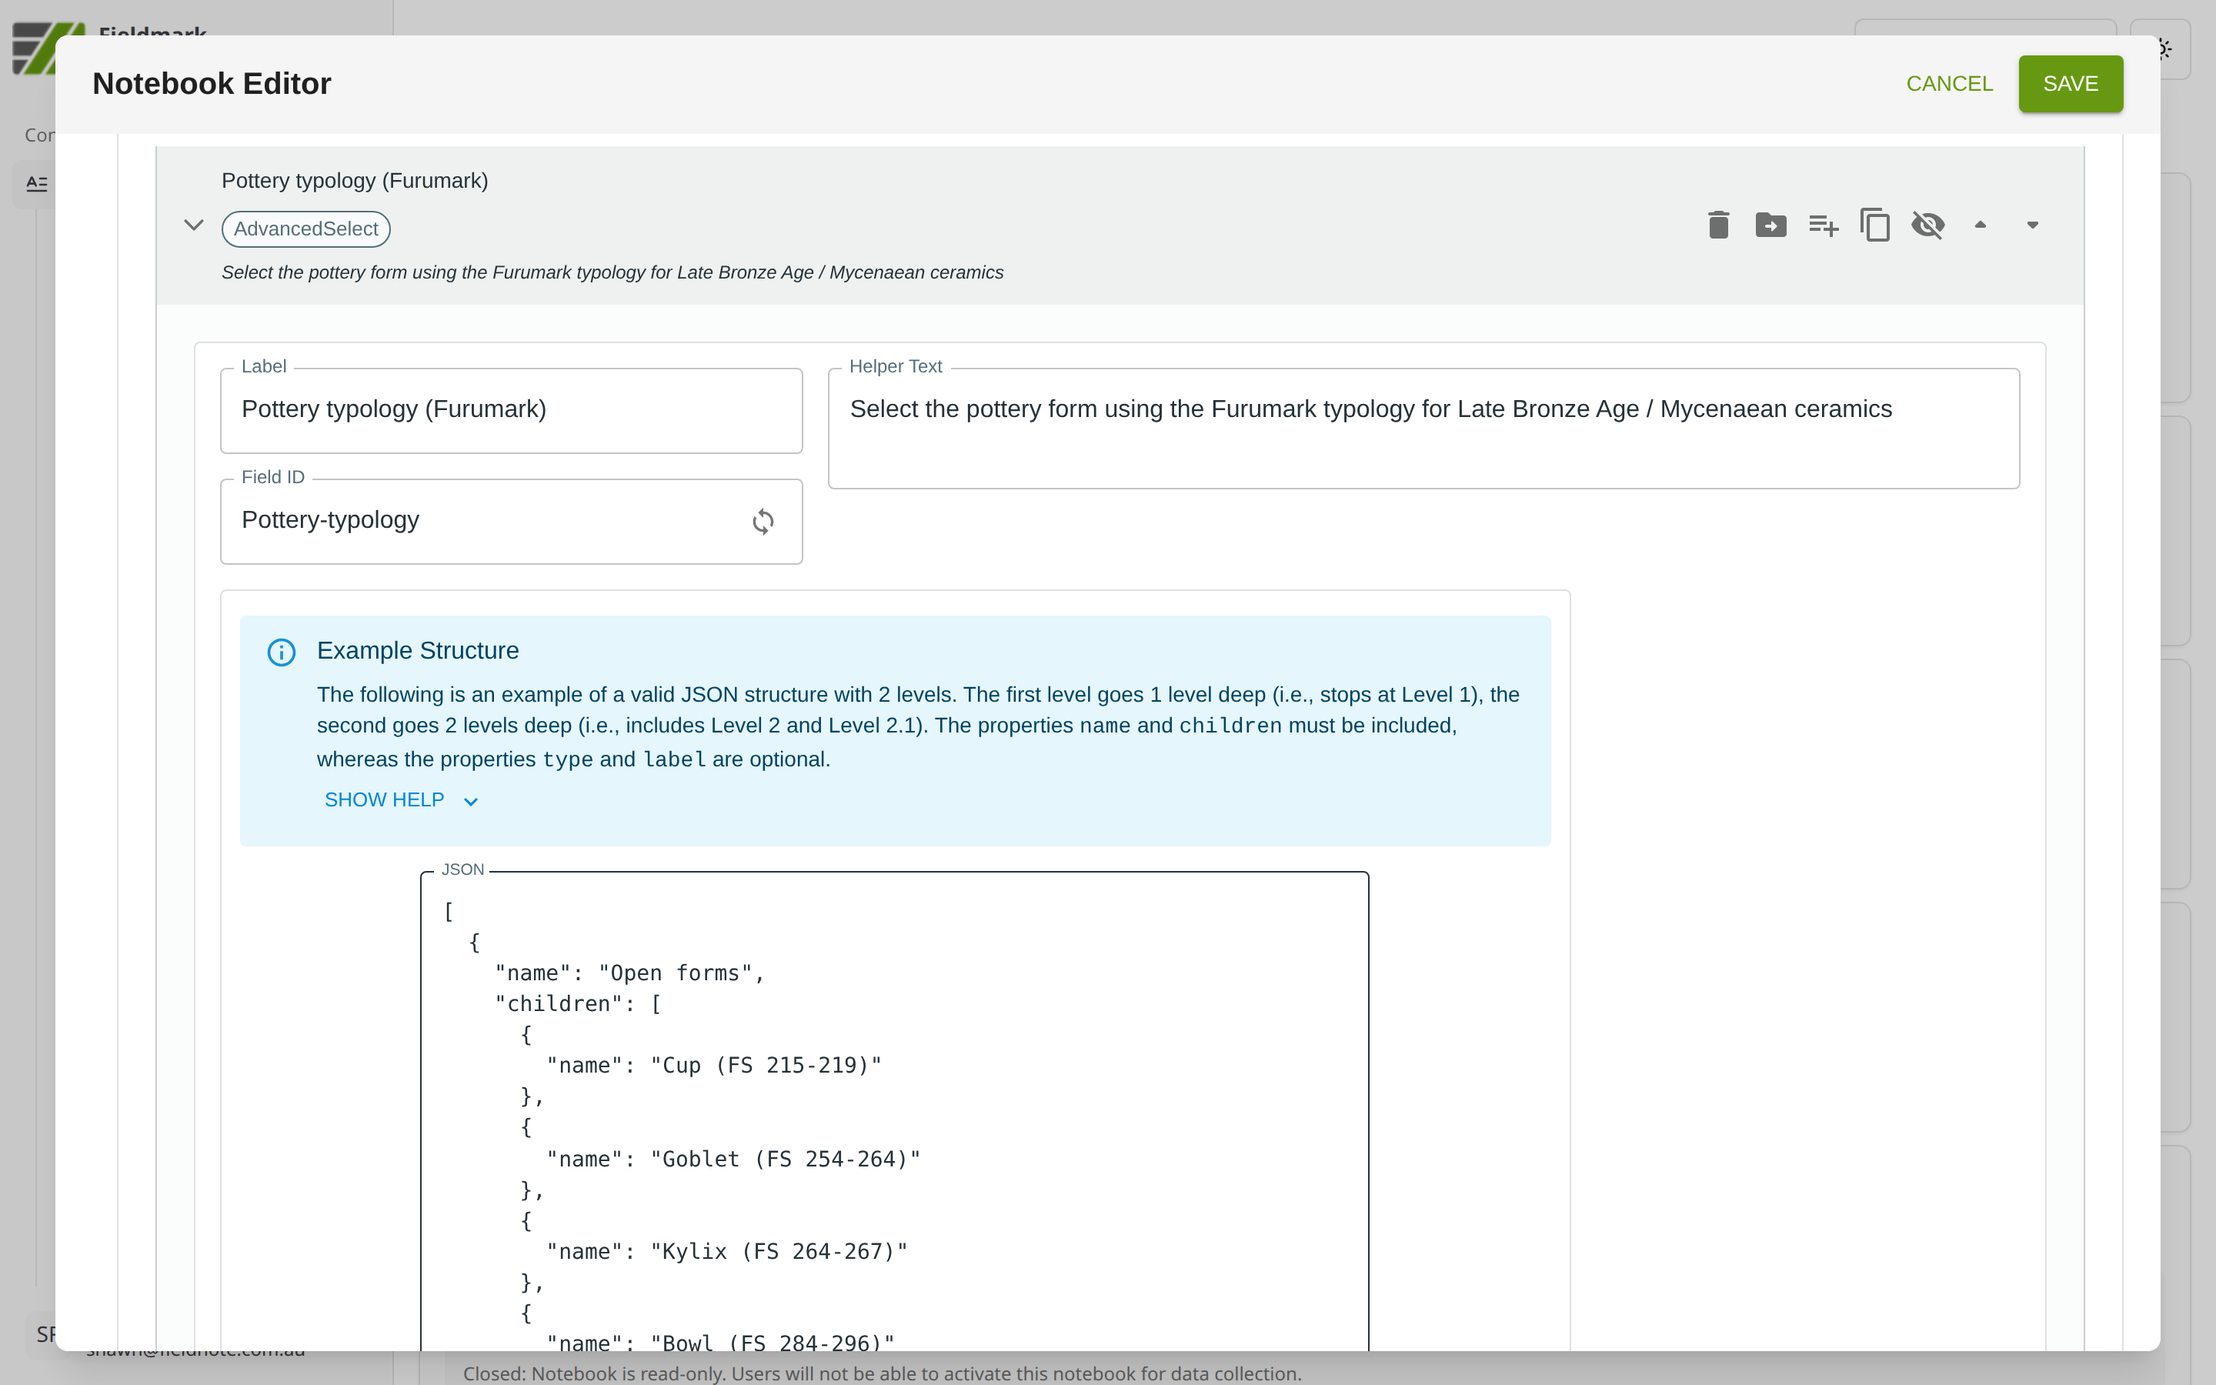
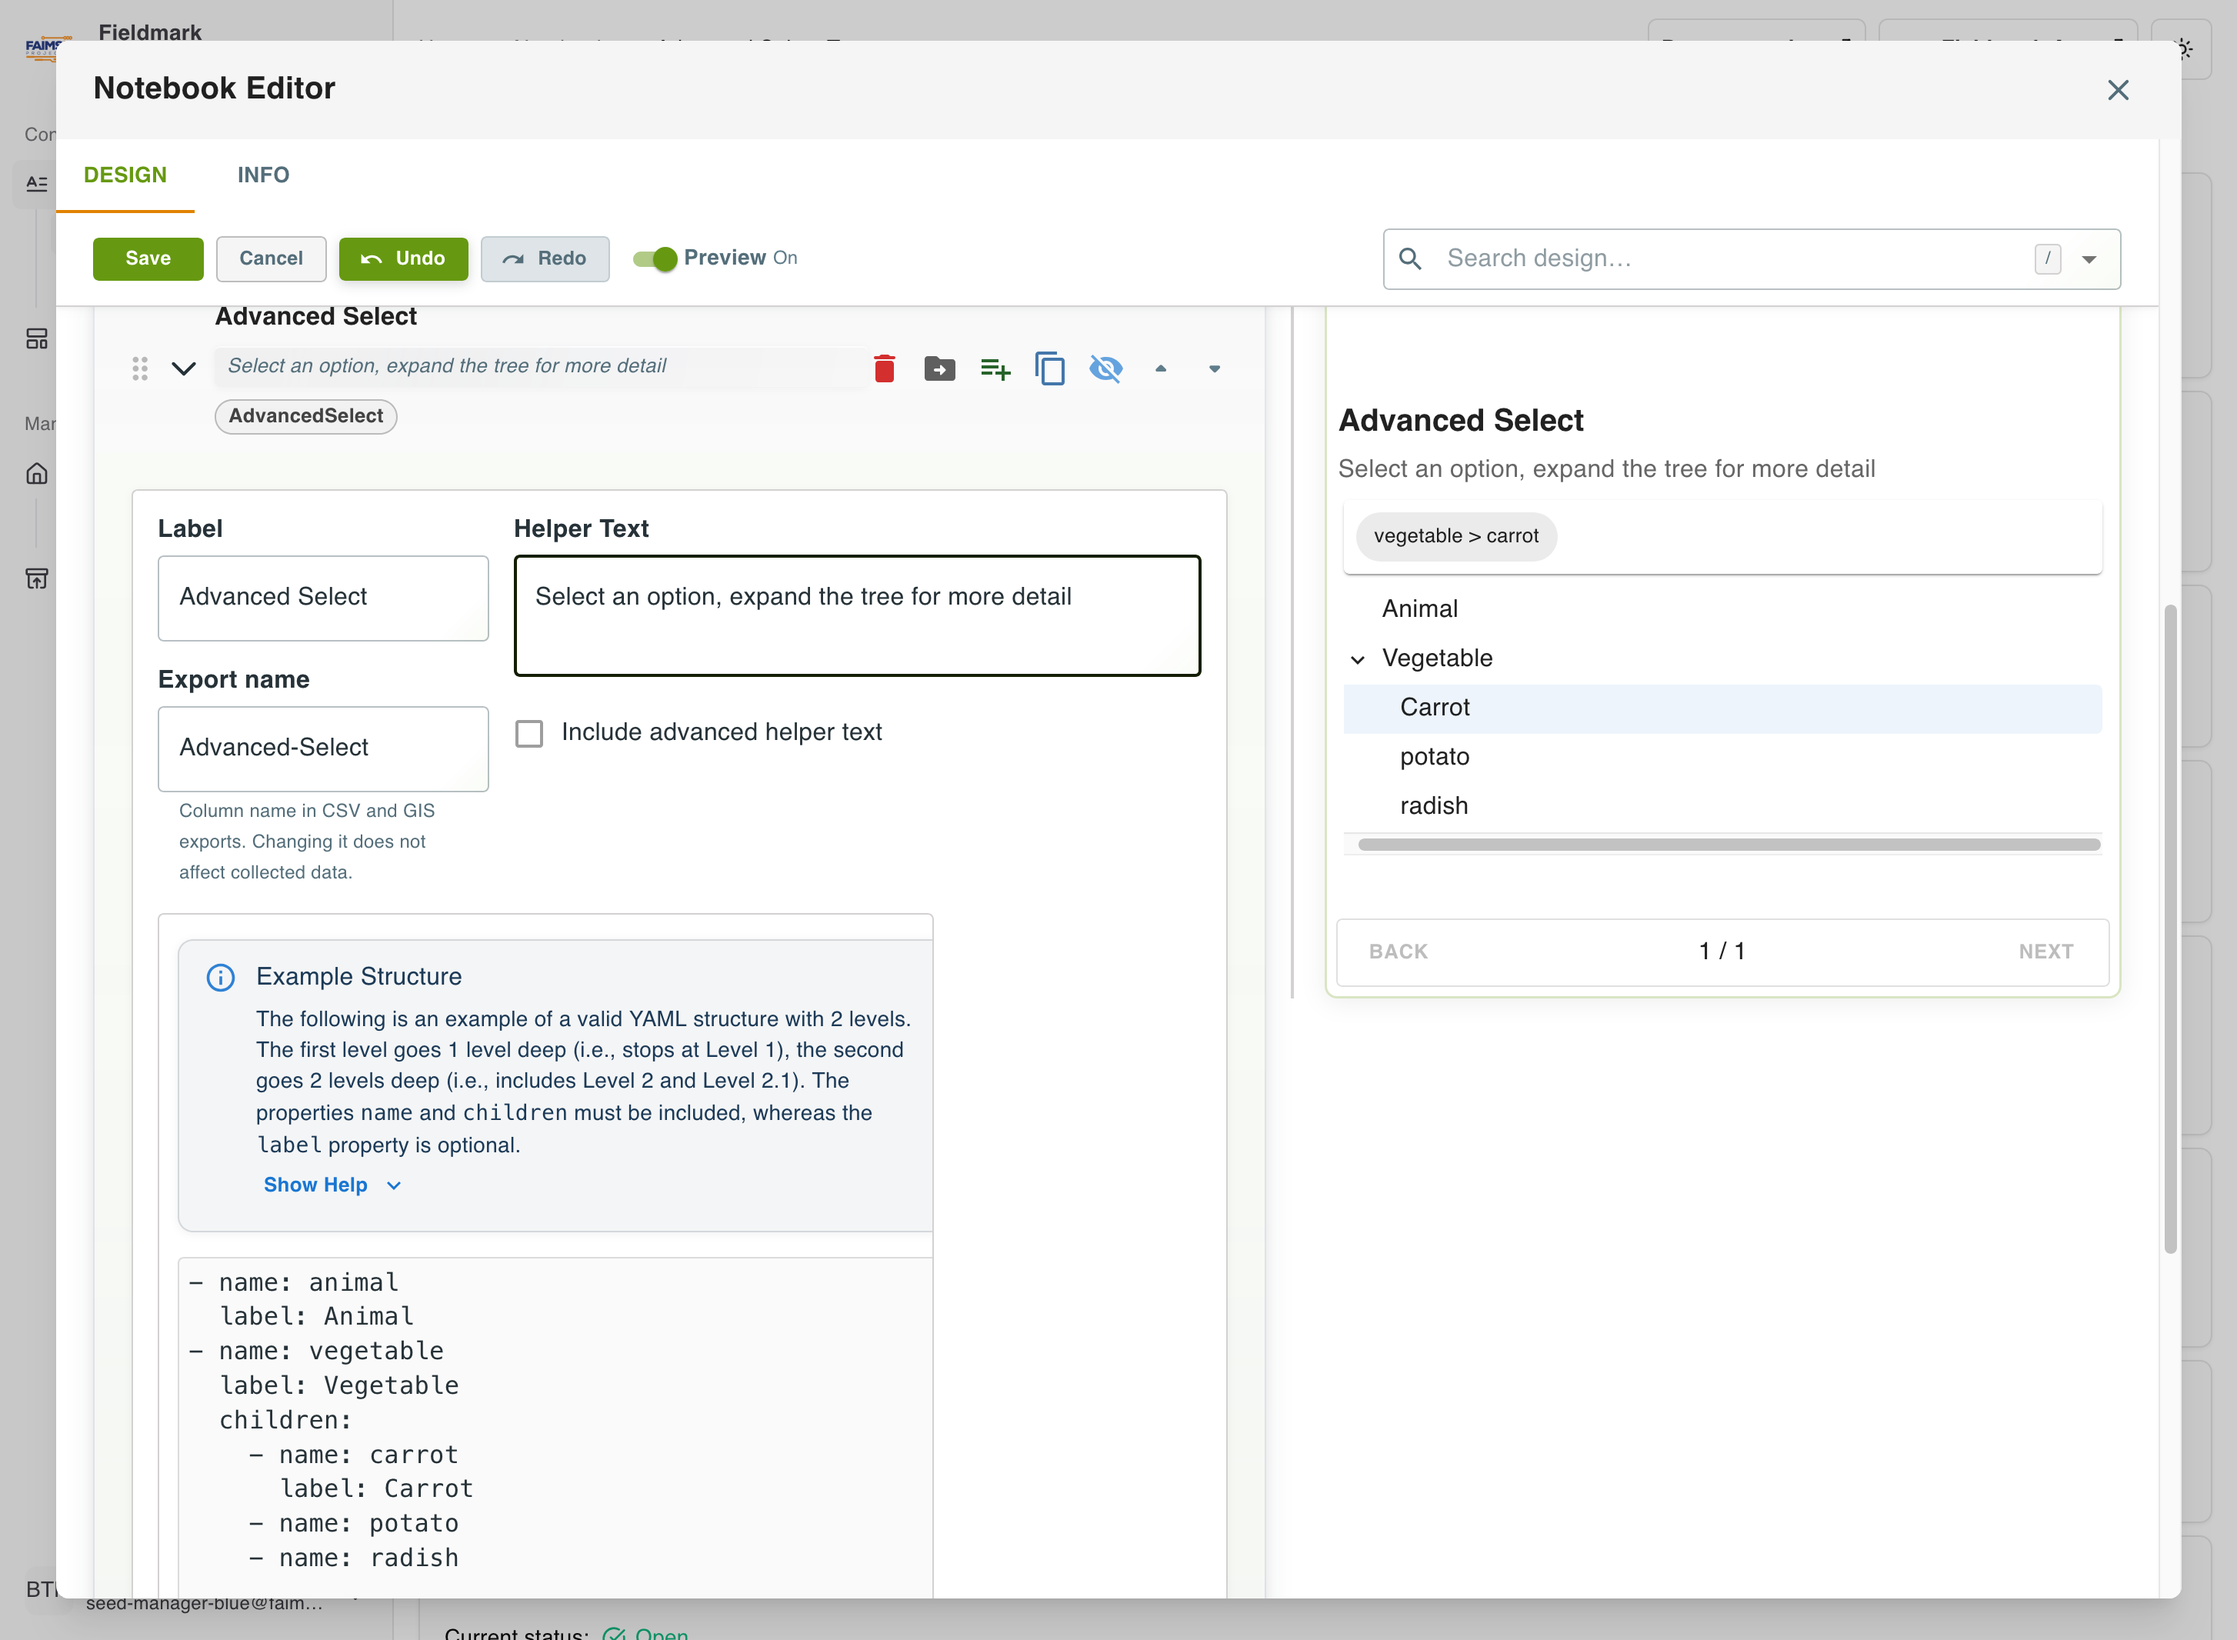
update user docs

diff --git a/web/src/designer/components/Fields/AdvancedSelectEditor.tsx b/web/src/designer/components/Fields/AdvancedSelectEditor.tsx
@@ -317,7 +317,6 @@ export const AdvancedSelectEditor = ({fieldName}: {fieldName: string}) => {
                       {
                         name: 'level-1',
                         label: 'Level 1',
-                        children: [],
                       },
                       {
                         name: 'level-2',
@@ -325,7 +324,6 @@ export const AdvancedSelectEditor = ({fieldName}: {fieldName: string}) => {
                           {
                             name: 'level-2-1',
                             label: 'Level 2.1',
-                            children: [],
                           },
                         ],
                       },

diff --git a/docs/user/field-types/choice-fields/hierarchical-select.md b/docs/user/field-types/choice-fields/hierarchical-select.md
@@ -15,7 +15,7 @@ selection, and the stored value can be either the full path
 (e.g., "Ceramics > Coarseware > Cooking pot") or just the leaf node name.
 
 > **Note:** This field is a **beta feature**. The hierarchy structure
-> must be defined via JSON editing — the {{Notebook}} Editor does not yet
+> must be defined via YAML editing — the {{Notebook}} Editor does not yet
 > provide a visual tree editor. Also consider the display
 > size of the field on mobile devices.
 
@@ -51,6 +51,7 @@ desired Helper Text.
 ```{screenshot} field-types-design/hierarchical-select-02-configured.png
 :alt: Select Field (Hierarchical) configuration in the {{Notebook}} Editor
 :align: right
+:width: 100%
 ```
 
 ### Select Field (Hierarchical)-Specific Settings
@@ -66,8 +67,25 @@ a valid JSON structure with two levels.
 | -------------- | -------------------------------------------------------------------------------------------------------------------------------------------------------------------------------------------------------- |
 | **Value type** | Controls what is stored when a selection is made: "full" stores the complete path (e.g., "Ceramics > Coarseware > Cooking pot"), while "child" stores only the selected node name (e.g., "Cooking pot"). |
 
-The **hierarchy tree** (the `optiontree` structure) is not configurable
-in the {{Notebook}} Editor and must be defined via JSON editing.
+The **hierarchy tree** can be edited in the text entry box and must follow
+[YAML format](https://www.yaml.info/learn/index.html). Follow the example
+for the required structure. Each entry must have a `name` attribute
+and can optionally have a `label`. The `name` will be the value stored
+in the field, the label is displayed to the user. You can optionally include
+`children` which must then contain a nested list of entries. Nesting can
+go as deep as you would like. Here is a simple example:
+
+```yaml
+- name: animal
+  label: Animal
+- name: vegetable
+  label: Vegetable
+  children:
+    - name: carrot
+      label: Carrot
+    - name: potato
+    - name: radish
+```
 
 ### Shared Field Options
 
